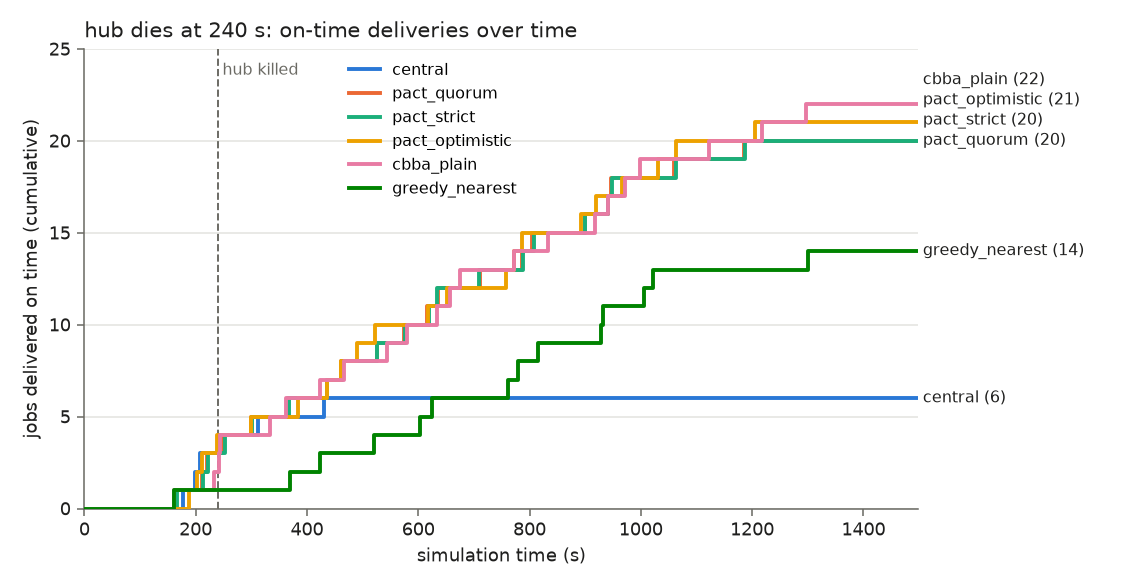
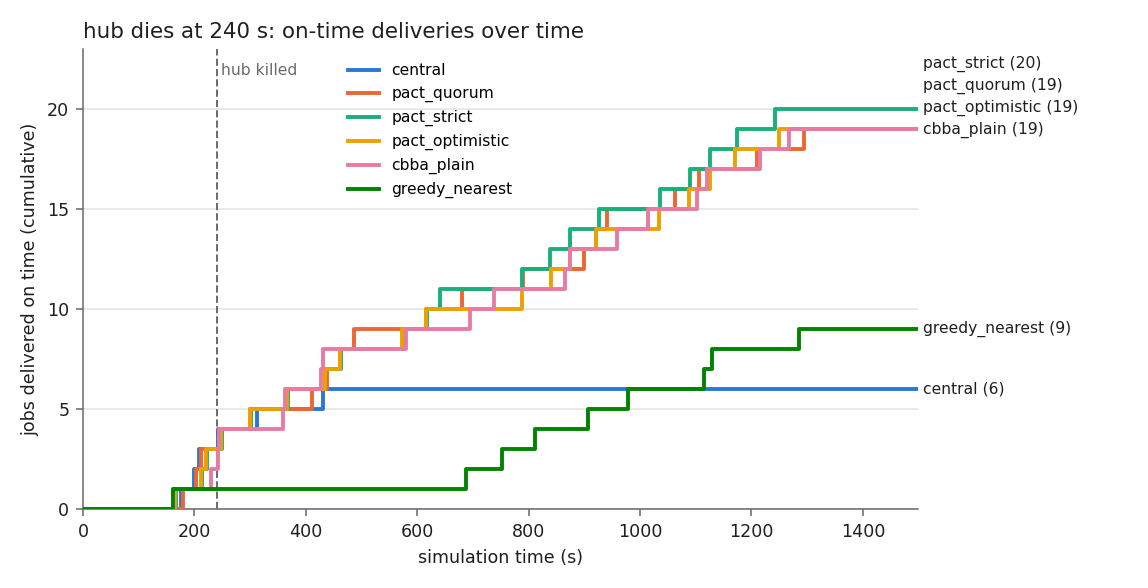
bench: 90-run 5-seed benchmark rerun (3 scenarios x 6 systems x 5 seeds)
- bench.py: an interrupted run restarts from scratch instead of appending
- bench shards 1-3 for parallel sweeps; time_scale 6
- plot_results.py: means with 95 % CI
- regenerated results/ and docs/img/ replacing the 18-run 1-seed table

diff --git a/tools/plot_results.py b/tools/plot_results.py
@@ -57,28 +57,47 @@ def read_rows(results):
         return list(csv.DictReader(f))
 
 
+def mean_ci(values):
+    """Mean and 95 % half-width (normal approximation, as in the bench summary)."""
+    values = [v for v in values if v == v]
+    if not values:
+        return float('nan'), 0.0
+    m = sum(values) / len(values)
+    if len(values) < 2:
+        return m, 0.0
+    var = sum((v - m) ** 2 for v in values) / (len(values) - 1)
+    return m, 1.96 * (var / len(values)) ** 0.5
+
+
 def plot_on_time(rows, out):
     scenarios = [s for s in SCENARIO_LABEL if any(r['scenario'] == s for r in rows)]
-    rate = {(r['scenario'], r['system']): float(r['on_time_rate']) for r in rows}
+    per_run = {}
+    for r in rows:
+        if r['on_time_rate'] not in ('', 'None'):
+            per_run.setdefault((r['scenario'], r['system']), []).append(float(r['on_time_rate']))
+    seeds = max((len(v) for v in per_run.values()), default=0)
     fig, ax = plt.subplots(figsize=(8.2, 4.2))
     n = len(SYSTEMS)
     width = 0.8 / n
     for i, sysname in enumerate(SYSTEMS):
         xs = [k + (i - (n - 1) / 2) * width for k in range(len(scenarios))]
-        ys = [100 * rate.get((s, sysname), float('nan')) for s in scenarios]
+        stats = [mean_ci(per_run.get((s, sysname), [])) for s in scenarios]
+        ys = [100 * m for m, _ in stats]
+        errs = [100 * h for _, h in stats]
         ax.bar(xs, ys, width * 0.9, color=COLOUR[sysname], label=sysname, edgecolor='white',
-               linewidth=1)
-        for x, y in zip(xs, ys, strict=True):
+               linewidth=1, yerr=errs, error_kw={'ecolor': MUTED, 'elinewidth': 1, 'capsize': 2})
+        for x, y, e in zip(xs, ys, errs, strict=True):
             if sysname == 'central' or y < 50:  # label the headline bars only
-                ax.text(x, y + 1.5, '%.0f' % y, ha='center', va='bottom', fontsize=8, color=INK)
+                ax.text(x, y + e + 1.5, '%.0f' % y, ha='center', va='bottom', fontsize=8,
+                        color=INK)
     ax.set_xticks(range(len(scenarios)))
     ax.set_xticklabels([SCENARIO_LABEL[s] for s in scenarios], fontsize=9)
     ax.set_ylabel('jobs delivered on time (%)', color=INK, fontsize=9)
     ax.set_ylim(0, 100)
     style(ax)
     ax.legend(ncol=3, fontsize=8, frameon=False, loc='upper center', bbox_to_anchor=(0.5, -0.1))
-    ax.set_title('On-time delivery by scenario (6 drones, 30 jobs, seed 1)', loc='left',
-                 fontsize=11, color=INK)
+    ax.set_title('On-time delivery by scenario (6 drones, mean and 95 %% CI over %d seeds)'
+                 % seeds, loc='left', fontsize=11, color=INK)
     fig.tight_layout()
     path = os.path.join(out, 'on_time_by_scenario.png')
     fig.savefig(path, dpi=140)

diff --git a/src/aeropact_eval/aeropact_eval/bench.py b/src/aeropact_eval/aeropact_eval/bench.py
@@ -24,6 +24,7 @@ import csv
 import json
 import math
 import os
+import shutil
 import statistics
 import subprocess
 import sys
@@ -48,6 +49,9 @@ def run_one(scenario, system, seed, out_root, time_scale, timeout_s):
     if os.path.exists(os.path.join(run_dir, 'metrics.json')):
         with open(os.path.join(run_dir, 'metrics.json'), encoding='utf-8') as f:
             return json.load(f), 0.0
+    # A directory without metrics is an interrupted run. Start it from scratch: the event recorder
+    # appends, and a rerun on top of a partial log would interleave two simulations.
+    shutil.rmtree(run_dir, ignore_errors=True)
     os.makedirs(run_dir, exist_ok=True)
     cmd = ['ros2', 'launch', 'aeropact_bringup', 'scenario.launch.py',
            'scenario:=%s' % scenario, 'system:=%s' % system, 'seed:=%d' % seed,

diff --git a/results/summary.md b/results/summary.md
@@ -4,21 +4,21 @@ Simulation results indicate relative merit, not real-world performance (assumpti
 
 | scenario | system | runs | on-time | completion | duplicate rate | median recovery (s) | msgs/drone/min | invariants |
 |---|---|---|---|---|---|---|---|---|
-| s0_healthy | cbba_plain | 1 | 63.3% +/- 0.0 | 73.3% +/- 0.0 | 0.0% +/- 0.0 | n/a | 117.2 +/- 0.0 | 1/1 |
-| s0_healthy | central | 1 | 66.7% +/- 0.0 | 86.7% +/- 0.0 | 0.0% +/- 0.0 | n/a | 116.6 +/- 0.0 | 1/1 |
-| s0_healthy | greedy_nearest | 1 | 40.0% +/- 0.0 | 53.3% +/- 0.0 | 6.7% +/- 0.0 | n/a | n/a | 0/1 |
-| s0_healthy | pact_optimistic | 1 | 66.7% +/- 0.0 | 80.0% +/- 0.0 | 0.0% +/- 0.0 | n/a | 119.8 +/- 0.0 | 1/1 |
-| s0_healthy | pact_quorum | 1 | 66.7% +/- 0.0 | 80.0% +/- 0.0 | 0.0% +/- 0.0 | n/a | 119.8 +/- 0.0 | 1/1 |
-| s0_healthy | pact_strict | 1 | 66.7% +/- 0.0 | 80.0% +/- 0.0 | 0.0% +/- 0.0 | n/a | 119.7 +/- 0.0 | 1/1 |
-| s1_hub_loss | cbba_plain | 1 | 73.3% +/- 0.0 | 80.0% +/- 0.0 | 0.0% +/- 0.0 | n/a | 116.9 +/- 0.0 | 1/1 |
-| s1_hub_loss | central | 1 | 20.0% +/- 0.0 | 20.0% +/- 0.0 | 0.0% +/- 0.0 | n/a | 107.1 +/- 0.0 | 1/1 |
-| s1_hub_loss | greedy_nearest | 1 | 46.7% +/- 0.0 | 66.7% +/- 0.0 | 3.3% +/- 0.0 | n/a | 116.7 +/- 0.0 | 0/1 |
-| s1_hub_loss | pact_optimistic | 1 | 70.0% +/- 0.0 | 80.0% +/- 0.0 | 0.0% +/- 0.0 | n/a | 119.7 +/- 0.0 | 1/1 |
-| s1_hub_loss | pact_quorum | 1 | 66.7% +/- 0.0 | 83.3% +/- 0.0 | 0.0% +/- 0.0 | n/a | 119.7 +/- 0.0 | 1/1 |
-| s1_hub_loss | pact_strict | 1 | 66.7% +/- 0.0 | 80.0% +/- 0.0 | 0.0% +/- 0.0 | n/a | 119.8 +/- 0.0 | 1/1 |
-| s3_split_brain | cbba_plain | 1 | 70.0% +/- 0.0 | 83.3% +/- 0.0 | 0.0% +/- 0.0 | n/a | 124.0 +/- 0.0 | 1/1 |
-| s3_split_brain | central | 1 | 66.7% +/- 0.0 | 86.7% +/- 0.0 | 0.0% +/- 0.0 | n/a | 123.9 +/- 0.0 | 1/1 |
-| s3_split_brain | greedy_nearest | 1 | 56.7% +/- 0.0 | 70.0% +/- 0.0 | 6.7% +/- 0.0 | n/a | 123.8 +/- 0.0 | 0/1 |
-| s3_split_brain | pact_optimistic | 1 | 66.7% +/- 0.0 | 83.3% +/- 0.0 | 0.0% +/- 0.0 | n/a | 126.2 +/- 0.0 | 1/1 |
-| s3_split_brain | pact_quorum | 1 | 56.7% +/- 0.0 | 76.7% +/- 0.0 | 0.0% +/- 0.0 | n/a | 124.7 +/- 0.0 | 1/1 |
-| s3_split_brain | pact_strict | 1 | 66.7% +/- 0.0 | 83.3% +/- 0.0 | 0.0% +/- 0.0 | n/a | 124.7 +/- 0.0 | 1/1 |
+| s0_healthy | cbba_plain | 5 | 65.6% +/- 12.0 | 80.4% +/- 10.8 | 0.0% +/- 0.0 | n/a | 116.1 +/- 0.5 | 5/5 |
+| s0_healthy | central | 5 | 59.3% +/- 5.3 | 73.8% +/- 5.3 | 0.0% +/- 0.0 | n/a | 115.6 +/- 0.4 | 5/5 |
+| s0_healthy | greedy_nearest | 5 | 26.4% +/- 7.6 | 31.9% +/- 9.6 | 3.2% +/- 0.4 | n/a | 113.6 +/- 1.7 | 0/5 |
+| s0_healthy | pact_optimistic | 5 | 66.7% +/- 6.6 | 79.6% +/- 7.7 | 0.0% +/- 0.0 | n/a | 119.3 +/- 0.2 | 5/5 |
+| s0_healthy | pact_quorum | 5 | 69.7% +/- 9.5 | 81.5% +/- 9.8 | 0.0% +/- 0.0 | n/a | 119.2 +/- 0.4 | 5/5 |
+| s0_healthy | pact_strict | 5 | 70.9% +/- 9.6 | 81.9% +/- 8.5 | 0.0% +/- 0.0 | n/a | 119.3 +/- 0.2 | 5/5 |
+| s1_hub_loss | cbba_plain | 5 | 65.6% +/- 5.9 | 77.9% +/- 9.1 | 0.0% +/- 0.0 | n/a | 115.8 +/- 0.5 | 5/5 |
+| s1_hub_loss | central | 5 | 20.2% +/- 2.1 | 20.2% +/- 2.1 | 0.0% +/- 0.0 | n/a | 107.5 +/- 4.8 | 5/5 |
+| s1_hub_loss | greedy_nearest | 5 | 30.4% +/- 13.9 | 45.1% +/- 18.8 | 4.7% +/- 3.4 | n/a | 114.7 +/- 1.3 | 0/5 |
+| s1_hub_loss | pact_optimistic | 5 | 68.5% +/- 5.0 | 79.2% +/- 7.0 | 0.0% +/- 0.0 | n/a | 119.1 +/- 0.3 | 5/5 |
+| s1_hub_loss | pact_quorum | 5 | 66.8% +/- 5.8 | 76.9% +/- 9.3 | 0.0% +/- 0.0 | n/a | 119.1 +/- 0.2 | 5/5 |
+| s1_hub_loss | pact_strict | 5 | 67.0% +/- 1.7 | 78.1% +/- 5.3 | 0.0% +/- 0.0 | n/a | 119.5 +/- 0.2 | 5/5 |
+| s3_split_brain | cbba_plain | 5 | 55.4% +/- 6.7 | 64.4% +/- 11.2 | 0.0% +/- 0.0 | 674.0 +/- 271.5 | 116.7 +/- 0.5 | 5/5 |
+| s3_split_brain | central | 5 | 63.0% +/- 11.5 | 75.2% +/- 12.6 | 0.0% +/- 0.0 | n/a | 123.7 +/- 0.7 | 5/5 |
+| s3_split_brain | greedy_nearest | 5 | 31.8% +/- 7.9 | 48.5% +/- 12.1 | 4.4% +/- 1.3 | 716.6 +/- 143.5 | 116.3 +/- 1.0 | 0/5 |
+| s3_split_brain | pact_optimistic | 5 | 68.6% +/- 9.6 | 81.1% +/- 9.5 | 0.0% +/- 0.0 | n/a | 125.4 +/- 0.6 | 5/5 |
+| s3_split_brain | pact_quorum | 5 | 67.4% +/- 13.3 | 82.0% +/- 8.6 | 0.0% +/- 0.0 | n/a | 123.6 +/- 0.7 | 5/5 |
+| s3_split_brain | pact_strict | 5 | 65.0% +/- 11.4 | 76.5% +/- 13.5 | 0.0% +/- 0.0 | n/a | 124.4 +/- 0.6 | 5/5 |
